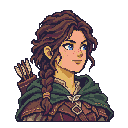
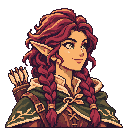
v48: 36 student heroes, 10 redrawn portraits, boarding prompt, lighthouses, bigger day flip, starting treasure, mines panel, more movement
Claude-Session: https://claude.ai/code/session_019G5bQC3KGAYpQSZdre1Ejx

diff --git a/js/01-data.js b/js/01-data.js
@@ -263,6 +263,43 @@ HEROES.push(
   {id:'bess_and_bea',tav:true,name:'Bess & Bea',fac:'centaurs',type:'Might',st:[2,3,0,1],ab:'Caravan Guards',ad:'Centaurs +2 attack and +2 defense.',sk:['shieldcraft'],sp:[],fx:{unitAtk:{centaur:2},unitDef:{centaur:2}}},
   {id:'gilt',tav:true,name:'Gilt',fac:'centaurs',type:'Might',st:[2,1,1,2],ab:'Tunnel Scout',ad:'+2 vision, and War Rabbits +2 attack.',sk:['farsight'],sp:[],fx:{vision:2,unitAtk:{rabbit:2}}},
   {id:'fin_and_flo',name:'Fin & Flo',fac:'merfolk',type:'Magic',st:[0,1,3,2],ab:'Reef Chartmakers',ad:'Giant Crabs +2 attack and +2 defense.',sk:['seamanship'],sp:['squall'],fx:{unitAtk:{crab:2},unitDef:{crab:2}}},
+  /* v48 Student Heroes (batches 1, 3, 4, 5): made by students with Create a hero; tavern wanderers of their banner, or rogues */
+  {id:'bort_simesin',tav:true,student:true,name:'Bort',fac:'necro',type:'Might',st:[2, 2, 1, 1],ab:'Growing Stone',ad:'Hellkites +2 defense and +1 speed.',sk:['command'],sp:[],fx:{unitDef:{hellkite:2},unitSpd:{hellkite:1}}},
+  {id:'gunt_gunt',tav:true,student:true,name:'Gunt Gunt',fac:'pirates',type:'Might',st:[2, 2, 1, 1],ab:'Wooden Knight',ad:'Deckhands +2 defense and +1 speed.',sk:['command'],sp:[],fx:{unitDef:{deckhand:2},unitSpd:{deckhand:1}}},
+  {id:'azure_hype',tav:true,student:true,name:'Azure Hype',fac:'rangers',type:'Magic',st:[0, 1, 3, 2],ab:'One-Hand Casting',ad:'Every spell costs 1 less mana.',sk:['meditation'],sp:['swift'],fx:{manaCut:1}},
+  {id:'ericsonion',tav:true,student:true,name:'Ericsonion',fac:'rangers',type:'Magic',st:[0, 1, 3, 2],ab:'Shield Knight',ad:'Antler Knights +2 defense and +1 speed.',sk:['meditation'],sp:['bark'],fx:{unitDef:{antler:2},unitSpd:{antler:1}}},
+  {id:'ardcat',tav:true,student:true,name:'Ardcat',fac:'pirates',type:'Might',st:[2, 2, 1, 1],ab:'Cat Tamer',ad:'+2 vision, and Powder Monkeys +2 attack.',sk:['command'],sp:[],fx:{vision:2,unitAtk:{powder:2}}},
+  {id:'space_toad',tav:true,student:true,name:'Toad',fac:'pirates',type:'Might',st:[2, 2, 1, 1],ab:'Port Tales',ad:'+150 gold a day, and Gunners +1 speed.',sk:['command'],sp:[],fx:{goldDay:150,unitSpd:{gunner:1}}},
+  {id:'mr_pinecone',tav:true,student:true,name:'Mr. Pinecone',fac:'elves',type:'Might',st:[2, 2, 1, 1],ab:'Pinecone Patrol',ad:'Sprites +2 attack and +2 defense.',sk:['command'],sp:[],fx:{unitAtk:{sprite:2},unitDef:{sprite:2}}},
+  {id:'nix',rogue:true,student:true,name:'Nyx',fac:'centaurs',type:'Magic',st:[0, 1, 3, 2],ab:'Ignored Villain',ad:'+1 luck for the whole army, and +10% movement.',sk:['meditation'],sp:['ember'],fx:{luck:1,mpPct:10}},
+  {id:'deepwave_the_ai',tav:true,student:true,name:'Deep Wave',fac:'rangers',type:'Magic',st:[0, 1, 3, 2],ab:'Flashlight Scout',ad:'+2 vision, and Moth Seers +1 speed.',sk:['meditation'],sp:['mend'],fx:{vision:2,unitSpd:{moth:1}}},
+  {id:'bobbythebob',tav:true,student:true,name:'BobbytheBob',fac:'wizards',type:'Magic',st:[0, 1, 3, 2],ab:'Potion Brewer',ad:'Mend heals 50% more, and Apprentice Mages +1 speed.',sk:['meditation'],sp:['mend'],fx:{mendPct:1.5,unitSpd:{apprentice:1}}},
+  {id:'capydara',tav:true,student:true,name:'Capybara',fac:'pirates',type:'Might',st:[2, 2, 1, 1],ab:'Smooth Talker',ad:'Duelists +2 attack and +2 defense.',sk:['command'],sp:[],fx:{unitAtk:{duelist:2},unitDef:{duelist:2}}},
+  {id:'lishy',tav:true,student:true,name:'Lishi',fac:'pirates',type:'Might',st:[2, 2, 1, 1],ab:'Bronze Construct',ad:'Your whole army +1 defense.',sk:['command'],sp:[],fx:{armyDef:1}},
+  {id:'kushalito_banana',tav:true,student:true,name:'Kushalito',fac:'necro',type:'Might',st:[2, 2, 1, 1],ab:'Joke Scout',ad:'Zombies +2 speed, and +1 vision.',sk:['command'],sp:[],fx:{unitSpd:{zombie:2},vision:1}},
+  {id:'fut_esports',tav:true,student:true,name:'Fut',fac:'centaurs',type:'Magic',st:[0, 1, 3, 2],ab:'Umbrella President',ad:'+150 gold a day, and Lions +1 defense.',sk:['meditation'],sp:['swift'],fx:{goldDay:150,unitDef:{lion:1}}},
+  {id:'noel_dragonfire',tav:true,student:true,name:'Noël Dragonfire',fac:'merfolk',type:'Might',st:[2, 2, 1, 1],ab:'Storm Witch',ad:'Turtle Knights +2 attack and +2 defense.',sk:['command'],sp:['squall'],fx:{unitAtk:{turtle:2},unitDef:{turtle:2}}},
+  {id:'luckenzo',tav:true,student:true,name:'Luckenzo',fac:'wizards',type:'Magic',st:[0, 1, 3, 2],ab:'Puppy Tracker',ad:'+2 vision, and Owl Familiars +2 attack.',sk:['meditation'],sp:['swift'],fx:{vision:2,unitAtk:{owl:2}}},
+  {id:'lord_krishna',tav:true,student:true,name:'Lord Krishna',fac:'wizards',type:'Magic',st:[0, 1, 3, 2],ab:'Storm Witch',ad:'Storm Elementals +2 defense and +1 speed.',sk:['meditation'],sp:['chain'],fx:{unitDef:{stormel:2},unitSpd:{stormel:1}}},
+  {id:'bananna',tav:true,student:true,name:'Bananna',fac:'elves',type:'Magic',st:[0, 1, 3, 2],ab:'Banana Charm',ad:'Your whole army +1 luck, and Sprites +1 speed.',sk:['meditation'],sp:['mend'],fx:{luck:1,unitSpd:{sprite:1}}},
+  {id:'nala',rogue:true,student:true,name:'Nala',fac:'centaurs',type:'Magic',st:[0, 1, 3, 2],ab:'Charm Caster',ad:'+1 luck for the whole army, and +1 vision.',sk:['meditation'],sp:['mend'],fx:{luck:1,vision:1}},
+  {id:'nanya',rogue:true,student:true,name:'Nanya',fac:'centaurs',type:'Magic',st:[0, 1, 3, 2],ab:'Carrot Charm',ad:'+100 gold a day, and +10% movement.',sk:['meditation'],sp:['swift'],fx:{goldDay:100,mpPct:10}},
+  {id:'posy_spinner',rogue:true,student:true,name:'Posy Spinner',fac:'centaurs',type:'Magic',st:[0, 1, 3, 2],ab:'Star Lantern',ad:'+2 vision, and every spell costs 1 less mana.',sk:['meditation'],sp:['ember'],fx:{vision:2,manaCut:1}},
+  {id:'catherine',tav:true,student:true,name:'Catherine',fac:'wizards',type:'Magic',st:[0, 1, 3, 2],ab:'Magic Phone',ad:'Mend heals 50% more, and Archmages +1 speed.',sk:['meditation'],sp:['mend'],fx:{mendPct:1.5,unitSpd:{magus:1}}},
+  {id:'bristle',rogue:true,student:true,name:'Bristle',fac:'centaurs',type:'Might',st:[2, 2, 1, 1],ab:'Teapot Adventurer',ad:'Your whole army +1 defense, and +10% movement.',sk:['command'],sp:[],fx:{armyDef:1,mpPct:10}},
+  {id:'zenvy',tav:true,student:true,name:'Zenvy',fac:'centaurs',type:'Might',st:[2, 2, 1, 1],ab:'Black Diamond Knight',ad:'Lions +2 attack and +1 speed.',sk:['command'],sp:[],fx:{unitAtk:{lion:2},unitSpd:{lion:1}}},
+  {id:'king_pharoph_the_3rd',tav:true,student:true,name:'King Pharoph the 3rd',fac:'centaurs',type:'Might',st:[2, 2, 1, 1],ab:'Clockwork King',ad:'Centaurs +2 defense and +1 speed.',sk:['command'],sp:[],fx:{unitDef:{centaur:2},unitSpd:{centaur:1}}},
+  {id:'rose_flower',tav:true,student:true,name:'Rose Flower',fac:'wizards',type:'Magic',st:[0, 1, 3, 2],ab:'Songbird Mermaid',ad:'Earth Elementals +2 attack and +1 speed.',sk:['meditation'],sp:['frost'],fx:{unitAtk:{earthel:2},unitSpd:{earthel:1}}},
+  {id:'posy',rogue:true,student:true,name:'Posy',fac:'centaurs',type:'Magic',st:[0, 1, 3, 2],ab:'Potion Maker',ad:'Mend heals 50% more, and +100 gold a day.',sk:['meditation'],sp:['mend'],fx:{mendPct:1.5,goldDay:100}},
+  {id:'bannana_boy',tav:true,student:true,name:'Banana Boy',fac:'wizards',type:'Magic',st:[0, 1, 3, 2],ab:'Banana Healer',ad:'Mend heals 50% more, and Owl Familiars +2 growth per week.',sk:['meditation'],sp:['mend'],fx:{mendPct:1.5,growth:{owl:2}}},
+  {id:'spirit_of_the_forest',tav:true,student:true,name:'Spirit of the Forest',fac:'wizards',type:'Might',st:[2, 2, 1, 1],ab:'Thorn Armor',ad:'Earth Elementals +2 defense and +1 speed.',sk:['command'],sp:['bark'],fx:{unitDef:{earthel:2},unitSpd:{earthel:1}}},
+  {id:'ava_young',tav:true,student:true,name:'Ava',fac:'elves',type:'Magic',st:[0, 1, 3, 2],ab:'Bunny Healer',ad:'Mend heals 50% more, and Grove Wardens +1 speed.',sk:['meditation'],sp:['mend'],fx:{mendPct:1.5,unitSpd:{dryad:1}}},
+  {id:'rosie',tav:true,student:true,name:'Rosie',fac:'elves',type:'Magic',st:[0, 1, 3, 2],ab:'Puppy Charm',ad:'Elven Riders +2 attack and +1 speed.',sk:['meditation'],sp:['swift'],fx:{unitAtk:{rider:2},unitSpd:{rider:1}}},
+  {id:'celestine_circe',tav:true,student:true,name:'Celestine Circe',fac:'wizards',type:'Magic',st:[0, 1, 3, 2],ab:'Silver Witch',ad:'Archmages +2 attack, and +1 luck for the whole army.',sk:['meditation'],sp:['frost'],fx:{unitAtk:{magus:2},luck:1}},
+  {id:'estella',tav:true,student:true,name:'Estella',fac:'elves',type:'Magic',st:[0, 1, 3, 2],ab:'Heart Staff',ad:'Mend heals 50% more, and Giant Eagles +1 speed.',sk:['meditation'],sp:['mend'],fx:{mendPct:1.5,unitSpd:{eagle:1}}},
+  {id:'lily',tav:true,student:true,name:'Lily',fac:'elves',type:'Magic',st:[0, 1, 3, 2],ab:'Shadow Vine',ad:'Longbow Rangers +2 attack, and +1 vision.',sk:['meditation'],sp:['entangle'],fx:{unitAtk:{longbow:2},vision:1}},
+  {id:'pottery',tav:true,student:true,name:'Pottery',fac:'rangers',type:'Magic',st:[0, 1, 3, 2],ab:'Lantern Witch',ad:'Reedbows +2 attack, and +1 vision.',sk:['meditation'],sp:['mend'],fx:{unitAtk:{reed:2},vision:1}},
+  {id:'kaf_underworld_pharaoh',rogue:true,student:true,name:'Kaf',fac:'centaurs',type:'Might',st:[2, 2, 1, 1],ab:'Underworld Pharaoh',ad:'Your whole army +1 defense, and +100 gold a day.',sk:['command'],sp:[],fx:{armyDef:1,goldDay:100}},
   {id:'eden',name:'Eden',fac:'elves',type:'Magic',st:[0,1,2,2],ab:'Master Archer',ad:'Longbow Rangers +1 damage and +4 shots.',sk:['steadyaim'],sp:[],fx:{unitDmgFlat:{longbow:1},unitShots:{longbow:4}}},
   {id:'letchworth',name:'Letchworth',fac:'merfolk',type:'Magic',st:[0,1,2,2],ab:'Siren Keeper',ad:'Sirens +2 shots and +1 damage.',sk:[],sp:['squall'],fx:{unitShots:{siren:2},unitDmgFlat:{siren:1}}},
 );
@@ -326,7 +363,7 @@ const START_KIT={bear:['command','sash'],perry:['shieldcraft','buckler'],boone:[
   elvis:['command','sash'],mer2:['shieldcraft','kettle'],rocky:['forcedmarch','sash'],letchworth:['meditation','breath']};
 HEROES.forEach(h=>{const k=START_KIT[h.id];if(k){h.sk=[k[0]];h.item=k[1];}});
 /* v41: every hero starts with an artifact (the newer heroes had none) */
-const START_ITEM={'gus_and_glen':'errands','midge':'inkwell','mags_and_mae':'spark','bloop':'inkwell','gleam':'purse','odo_and_otto':'buckler','aster_and_briar':'breath','rue':'cloak','ned_and_nat':'bracer','spike':'buckler','rafe_and_reed':'purse','bo':'errands','bess_and_bea':'buckler','gilt':'rabbit','fin_and_flo':'breath','vera':'buckler','remy':'spark','ada':'cloak','mara':'candle','ivy':'bracer','lune':'inkwell','hart':'errands','orla':'breath','kit_and_nell':'purse','cato':'inkwell','sid_and_tess':'rabbit','wren':'errands','rumble':'buckler','payton':'rabbit','nissa':'cloak','livingston_cyborg':'bracer','enzo':'buckler','axel':'breath','dot':'errands','gale':'spark','zahara': 'errands', 'tembor': 'buckler', 'cresset': 'candle', 'nessa_holt': 'errands', 'reedcall': 'bracer', 'purl': 'inkwell', 'quillby': 'purse', 'sera_venn': 'breath', 'gliss': 'spark', 'veyra': 'spark', 'graven': 'buckler', 'ossin': 'inkwell', 'murmur': 'cloak', 'rattleclaw': 'whetstone', 'silka': 'candle', 'flintback': 'kettle', 'inkwake': 'cudgel', 'saltjaw': 'whetstone', 'pip_quickline': 'cloak', 'bess_bell': 'errands', 'rusk_hookhorn': 'cudgel', 'ilyra': 'breath', 'tavian': 'whetstone', 'yselle': 'inkwell', 'aster': 'candle', 'thornfrill': 'buckler', 'brynja': 'cudgel', 'tansy': 'bracer', 'kiln': 'kettle', 'harlan_chalk': 'buckler', 'morel': 'rabbit', 'spindle': 'errands', 'skimmer': 'whetstone', 'atoll': 'spark', 'iona_shoal': 'breath', 'nerka': 'cudgel', 'alderhide': 'buckler', 'briar': 'cloak', 'mossback': 'breath', 'virel': 'rabbit'};
+const START_ITEM={'bort_simesin':'buckler','gunt_gunt':'buckler','azure_hype':'inkwell','ericsonion':'inkwell','ardcat':'buckler','space_toad':'buckler','mr_pinecone':'buckler','nix':'inkwell','deepwave_the_ai':'inkwell','bobbythebob':'inkwell','capydara':'buckler','lishy':'buckler','kushalito_banana':'buckler','fut_esports':'inkwell','noel_dragonfire':'buckler','luckenzo':'inkwell','lord_krishna':'inkwell','bananna':'inkwell','nala':'inkwell','nanya':'inkwell','posy_spinner':'inkwell','catherine':'inkwell','bristle':'buckler','zenvy':'buckler','king_pharoph_the_3rd':'buckler','rose_flower':'inkwell','posy':'inkwell','bannana_boy':'inkwell','spirit_of_the_forest':'buckler','ava_young':'inkwell','rosie':'inkwell','celestine_circe':'inkwell','estella':'inkwell','lily':'inkwell','pottery':'inkwell','kaf_underworld_pharaoh':'buckler','gus_and_glen':'errands','midge':'inkwell','mags_and_mae':'spark','bloop':'inkwell','gleam':'purse','odo_and_otto':'buckler','aster_and_briar':'breath','rue':'cloak','ned_and_nat':'bracer','spike':'buckler','rafe_and_reed':'purse','bo':'errands','bess_and_bea':'buckler','gilt':'rabbit','fin_and_flo':'breath','vera':'buckler','remy':'spark','ada':'cloak','mara':'candle','ivy':'bracer','lune':'inkwell','hart':'errands','orla':'breath','kit_and_nell':'purse','cato':'inkwell','sid_and_tess':'rabbit','wren':'errands','rumble':'buckler','payton':'rabbit','nissa':'cloak','livingston_cyborg':'bracer','enzo':'buckler','axel':'breath','dot':'errands','gale':'spark','zahara': 'errands', 'tembor': 'buckler', 'cresset': 'candle', 'nessa_holt': 'errands', 'reedcall': 'bracer', 'purl': 'inkwell', 'quillby': 'purse', 'sera_venn': 'breath', 'gliss': 'spark', 'veyra': 'spark', 'graven': 'buckler', 'ossin': 'inkwell', 'murmur': 'cloak', 'rattleclaw': 'whetstone', 'silka': 'candle', 'flintback': 'kettle', 'inkwake': 'cudgel', 'saltjaw': 'whetstone', 'pip_quickline': 'cloak', 'bess_bell': 'errands', 'rusk_hookhorn': 'cudgel', 'ilyra': 'breath', 'tavian': 'whetstone', 'yselle': 'inkwell', 'aster': 'candle', 'thornfrill': 'buckler', 'brynja': 'cudgel', 'tansy': 'bracer', 'kiln': 'kettle', 'harlan_chalk': 'buckler', 'morel': 'rabbit', 'spindle': 'errands', 'skimmer': 'whetstone', 'atoll': 'spark', 'iona_shoal': 'breath', 'nerka': 'cudgel', 'alderhide': 'buckler', 'briar': 'cloak', 'mossback': 'breath', 'virel': 'rabbit'};
 HEROES.forEach(h=>{if(!h.item&&START_ITEM[h.id])h.item=START_ITEM[h.id];});
 /* starting stats: one higher across the board, more on each hero's main stat, and a personal extra point */
 for(const h of HEROES){if(h._st)continue;h._st=1;const r=hash(h.id);h.st=h.st.map(v=>v+1);const main=h.type==='Might'?(h.st[0]>=h.st[1]?0:1):(h.st[2]>=h.st[3]?2:3);h.st[main]+=1+(r%2);h.st[(r>>>3)%4]+=1;}

diff --git a/js/03-map.js b/js/03-map.js
@@ -1,6 +1,8 @@
 'use strict';
 /* ================= MAP ================= */
 let W=34,H=26;const TS=44;
+/* v48: Starting treasure on Choose your game: by difficulty, or 5,000 gold and 5 of each material, or 10,000 and 10 */
+const startRes=mo=>{const t=+mo.treasure;if(t===5||t===10)return{gold:t*1000,timber:t,ore:t,amber:t,gems:t,moonwater:t};return{...DIFF[mo.diff||'normal'].res};};
 const DIFF={
   easy:{name:'Easy',res:{gold:10000,timber:25,ore:25,amber:8,gems:6,moonwater:6},rv:0.75,mon:0.8,agg:0.7,desc:'10,000 gold and plenty of materials. Rivals start smaller and grow slowly; wild creatures are fewer.'},
   normal:{name:'Normal',res:{gold:5000,timber:15,ore:15,amber:4,gems:2,moonwater:2},rv:1,mon:1,agg:1,desc:'5,000 gold. Rivals are your match.'},
@@ -17,7 +19,7 @@ const MAP_TYPES={
   under:{name:'Underworld',desc:'Daylight above, a dark underworld below, solid bedrock between. Portals are the only way through. Necromancers rule below, and the Glass Lair waits down there.'},
   rivers:{name:'Four Rivers',desc:'Four rivers meet around an island holding the Glass Lair. Every banner has its own quarter. Cross at bridges, some guarded, and hold the bridgeheads with spires.'}};
 const T={GRASS:0,DIRT:1,ROAD:2,HEATH:3,BOG:4,FOREST:5,CRAG:6,LAKE:7};
-const TCOST=[100,100,70,130,175,0,0,0];
+const TCOST=[100,100,55,130,175,0,0,0];/* v48: roads cost 55 (was 70) */
 const TNAME=['Meadow','Dirt track','Old road','Heath','Bog','Deep forest','Crags','Lake'];
 const passableT=t=>t<5;
 let S=null;
@@ -715,7 +717,7 @@ function newGame(fk,hid,mo={}){
   const w=cm?customWorld(cm,rivalFacs):genMap(seed,{type,fac:fk,rivals:rivalFacs});const f=FAC[fk];
   const [t1,t2]=f.units;
   S={v:3,roster:2,ids27:1,seed,fac:fk,W,H,mapType:type,size:mo.size||'small',limit:sz.limit,tiles:w.tiles,objs:w.objs,uid:w.uid+10,biome:w.biome||'vale',underY:w.underY||0,rivers:w.rivers||null,bridges:w.bridges||null,explored:new Array(W*H).fill(0),day:1,
-    res:{...DIFF[mo.diff||'normal'].res},diff:mo.diff||'normal',heroes:[],cur:0,rivals:[],rumours:[],delivered:[],setup:{majors:mo.majors,outposts:mo.outposts},
+    res:startRes(mo),diff:mo.diff||'normal',heroes:[],cur:0,rivals:[],rumours:[],delivered:[],setup:{majors:mo.majors,outposts:mo.outposts},
     town:{x:w.town.x,y:w.town.y,name:f.town,built:{hall1:1,d1:1,d2:1,lib1:1},pool:{[t1]:U[t1].growth,[t2]:U[t2].growth},garrison:[],builtToday:false},
     over:false};
   const h=mkHero(hid,w.town.x,w.town.y);h.army=[{k:t1,n:Math.round(240/U[t1].hp)},{k:t2,n:Math.round(90/U[t2].hp)}];S.heroes.push(h);
@@ -744,7 +746,7 @@ function newGame(fk,hid,mo={}){
       S.objs.push({type:'town',x:sp.x,y:sp.y,owner:pi,id:S.uid++});
       const[u1,u2]=f2.units,h2=mkHero(pp.hid,sp.x,sp.y);h2.army=[{k:u1,n:Math.round(240/U[u1].hp)},{k:u2,n:Math.round(90/U[u2].hp)}];if(mo.artifact){const pool=Object.keys(ITEMS).filter(k=>ITEMS[k].lvl<=3&&!(h2.items||[]).includes(k));if(pool.length)giveItem(h2,pick(pool));}
       S.players.push({name:`Player ${pi+1}`,fac:pp.fk,town:{x:sp.x,y:sp.y,name:f2.town,built:{hall1:1,d1:1,d2:1,lib1:1},pool:{[u1]:U[u1].growth,[u2]:U[u2].growth},garrison:[],builtToday:false},
-        res:{...DIFF[mo.diff||'normal'].res},heroes:[h2],cur:0,explored:new Array(W*H).fill(0),delivered:[],rumours:[],goal:[0,1,2,3,4,5,6]});});
+        res:startRes(mo),heroes:[h2],cur:0,explored:new Array(W*H).fill(0),delivered:[],rumours:[],goal:[0,1,2,3,4,5,6]});});
     rebuildFoot();
     for(let j=1;j<S.players.length;j++){loadPlayer(j);HERO().mana=maxMana();HERO().mp=maxMP();reveal(S.town.x,S.town.y,6);addRumour(true);stashPlayer();}
     loadPlayer(0);
@@ -752,11 +754,14 @@ function newGame(fk,hid,mo={}){
   rebuildFoot();
   if(!w.noFurnish){const bases=[{x:S.town.x,y:S.town.y,fac:S.fac},...(S.players?S.players.slice(1).map(q=>({x:q.town.x,y:q.town.y,fac:q.fac})):S.rivals.map(r=>({x:r.x,y:r.y,fac:r.fac})))];furnishMap(bases);if(!cm)S.accessFixed=ensureAccess(bases);}
 }
+/* v48 lighthouses (shore scenery, positions kept in LIGHTS by the terrain painter): a hero within 2 tiles sees 14 tiles around the light */
+let LIGHTS=[];
+function lightsNear(x,y){let fresh=false;S.lit=S.lit||[];for(const l of LIGHTS)if(Math.max(Math.abs(l.x-x),Math.abs(l.y-y))<=2){reveal(l.x,l.y,14);const k=l.x+','+l.y;if(!S.lit.includes(k)){S.lit.push(k);fresh=true;}}return fresh;}
 function reveal(cx,cy,r){for(let y=cy-r;y<=cy+r;y++)for(let x=cx-r;x<=cx+r;x++)if(inb(x,y)&&(x-cx)**2+(y-cy)**2<=r*r+1)S.explored[idx(x,y)]=1;}
 const vision=()=>5+skL('farsight')+(fx().vision||0)+(S&&S.heroes?gear(HERO(),'vision'):0)+(S&&S.delivered&&delivered(0)?1:0);
 const maxMana=()=>Math.round(hst(HERO(),'lore')*10*(1+0.25*skL('deepres')));
 function maxMP(){const sp=HERO().army.length?Math.min(...HERO().army.map(a=>U[a.k].spd+((fx().unitSpd||{})[a.k]||0))):5;
-  let m=900+45*Math.min(sp,9);if(HERO().mount!=='foot')m*=1.4;m*=1+0.1*skL('forcedmarch');m*=1+(gear(HERO(),'mpPct')+(fx().mpPct||0))/100;if(S.event&&S.event.k==='road')m*=1.1;return Math.round(m);}
+  let m=1200+45*Math.min(sp,9);/* v48: base raised from 900 */if(HERO().mount!=='foot')m*=1.4;m*=1+0.1*skL('forcedmarch');m*=1+(gear(HERO(),'mpPct')+(fx().mpPct||0))/100;if(S.event&&S.event.k==='road')m*=1.1;return Math.round(m);}
 const xpFor=l=>Math.round(1000*l*(1+0.12*(l-1)));
 const income=()=>(S.town.taken?0:hallGold(S.town))+S.heroes.reduce((a,h)=>a+250*skLevel(h,'estates')+gear(h,'goldDay')+((HBY[h.id]&&HBY[h.id].fx||{}).goldDay||0),0)+S.objs.filter(o=>o.type==='camp'&&o.owned===ME()).reduce((a,o)=>a+campIncome(o),0);
 function dateParts(d=S.day){const m=Math.floor((d-1)/28)+1,w=Math.floor(((d-1)%28)/7)+1,dd=(d-1)%7+1;return{m,w,d:dd};}
@@ -825,9 +830,9 @@ function renderTerrainArt(){
     else if(!hills.some(p=>Math.max(Math.abs(p.x-x),Math.abs(p.y-y))<=1)){hills.push({x,y,w:0});P(under(y)?pick2(['leaning_monolith','split_boulder','umber_slate_ledge','taupe_granite_pair']):pick2(['ochre_hill','split_boulder','sandstone_boulders','ochre_rock_ledge','umber_slate_ledge','taupe_granite_pair','leaning_monolith']),x*N+16+j(4),y*N+30);}
     else P('boulder',x*N+16+j(10),y*N+26+j(4));}
   // the waterfront: a wreck out on open water, and the odd lighthouse on a shore
-  {let wrecks=Math.round(W/30),lights=Math.round(W/30);for(let k=0;k<600&&(wrecks>0||lights>0);k++){const x=2+Math.floor(g()*(W-4)),y=2+Math.floor(g()*(H-4)),i=idx(x,y);
+  LIGHTS=[];{let wrecks=Math.round(W/30),lights=Math.round(W/30);for(let k=0;k<600&&(wrecks>0||lights>0);k++){const x=2+Math.floor(g()*(W-4)),y=2+Math.floor(g()*(H-4)),i=idx(x,y);
     if(wrecks>0&&S.tiles[i]===T.LAKE&&!RV.has(i)&&[-1,0,1].every(a=>[-1,0,1].every(b=>S.tiles[idx(x+a,y+b)]===T.LAKE))&&!busy.has(i)){P('shipwreck',x*N+16,y*N+28);busy.add(i);wrecks--;}
-    else if(lights>0&&S.tiles[i]===T.GRASS&&!busy.has(i)&&!busy.has(i-W)&&lakeNear4(x,y)&&!under(y)){P('lighthouse',x*N+16,y*N+30);busy.add(i);lights--;}}}
+    else if(lights>0&&S.tiles[i]===T.GRASS&&!busy.has(i)&&!busy.has(i-W)&&lakeNear4(x,y)&&!under(y)){P('lighthouse',x*N+16,y*N+30);LIGHTS.push({x,y});busy.add(i);lights--;}}}
   // a few landmarks on open meadow: stone arches
   {let arches=Math.round(W/22);for(let k=0;k<400&&arches>0;k++){const x=1+Math.floor(g()*(W-2)),y=2+Math.floor(g()*(H-3));if(under(y))continue;
     const ok=[-1,0,1].every(dx=>{const i=idx(x+dx,y);return S.tiles[i]===T.GRASS&&!busy.has(i)&&!busy.has(i-W);});if(!ok)continue;
@@ -861,7 +866,7 @@ function renderTerrainArt(){
       else if(r<0.035*dk)P('flowers_meadow',X+j(14),Y+j(8));else if(r<0.05*dk)P('flowers_blue',X+j(14),Y+j(8));else if(r<0.08*dk)P('shrub',X+j(14),Y+j(8));else if(r<0.1*dk)P(near4(x,y,T.CRAG)&&r<0.093*dk?pick2(['sandstone_boulders','taupe_granite_pair']):'boulder',X+j(14),Y+j(8));}
     else if(t===T.DIRT&&r<0.06)P(r<0.03?pick2(GROUNDS):'boulder',X+j(14),Y+j(8));}
   props.sort((a,b)=>a.y-b.y);
-  for(const p of props){const img=taImg(`scenery/${p.k}.png`);sc.drawImage(img,Math.round(p.x-img.width/2),Math.round(p.y-img.height+4));}
+  for(const p of props){const img=taImg(`scenery/${p.k}.png`),k=p.k==='lighthouse'?0.7:1,w=Math.round(img.width*k),hh=Math.round(img.height*k);sc.drawImage(img,Math.round(p.x-w/2),Math.round(p.y-hh+4),w,hh);}
   const lake=(x,y)=>tl(x,y)===T.LAKE&&!RV.has(idx(clamp(x,0,W-1),clamp(y,0,H-1))),anim=taImg('water_anim.png');
   const RC=(x,y)=>!inb(x,y)||RV.has(idx(x,y));
   // big maps keep fewer water frames in memory

diff --git a/js/09-start.js b/js/09-start.js
@@ -33,7 +33,7 @@ const seedPick=(seed,salt,w)=>{let r=((seed^salt)*2654435761>>>0)/4294967296*w.r
 const REC_SIZE={1:'small',2:'medium',3:'large',4:'large',5:'xl',6:'xl'};
 async function pickMap(opt={}){
   const mine=loadMaps().filter(m=>m.objs.some(o=>o.type==='town')&&m.objs.filter(o=>o.type==='relic').length>=7);
-  let tut=typeof tutSeen==='function'?!tutSeen():false,type=opt.custom?'custom:'+opt.custom:'wheel',size=tut?'xl':'large',seed=(Math.random()*1e9)|0,mode='relic',np=2,diff='normal',nr=3,nm='r',no='r',art=false;
+  let tut=typeof tutSeen==='function'?!tutSeen():false,type=opt.custom?'custom:'+opt.custom:'wheel',size=tut?'xl':'large',seed=(Math.random()*1e9)|0,mode='relic',np=2,diff='normal',nr=3,nm='r',no='r',art=false,tr='d';
   const NR=()=>nr??MAP_SIZES[size].rivals,NM=()=>nm==='r'?seedPick(seed,0x5bd1,TOWN_W):nm??MAP_SIZES[size].majors,NO=()=>no==='r'?seedPick(seed,0x1f3a,OUT_W):no,OUTW=['Few','Some','Many'];
   const maxR=()=>type==='rivers'?4:6;
   const html=()=>`<div class="gm-top"><div class="diffs" role="group" aria-label="Difficulty"><span class="label">Difficulty</span>${Object.entries(DIFF).map(([k,d])=>`<button class="dchip bare${k===diff?' on':''}" data-diff="${k}" title="${d.desc}">${ico('difficulty_'+k,40)}${d.name}</button>`).join('')}</div><button class="dchip bare tutchip${tut?' on':''}" data-tut="1" title="A guide walks you through your first week: building, recruiting, mines, a second hero and your first fight. Suggested: an Extra large map with a banner you like.">📘 Tutorial${tut?': on':': off'}</button></div>
@@ -42,7 +42,8 @@ async function pickMap(opt={}){
     <h3 class="gsec">Rivals and towns</h3>
     <div class="maprow setup">${mode==='multi'?`<span class="label">Players</span>${[2,3,4,5].map(n=>`<button class="dchip bare${n===np?' on':''}" data-np="${n}" aria-label="${n} players">${ico('rivals_'+Math.min(6,n),48)}</button>`).join('')}`:`<span class="label">Rivals</span>${[1,2,3,4,5,6].map(n=>`<button class="dchip bare${n===NR()?' on':''}" data-nr="${n}" ${n>maxR()?'disabled title="Four Rivers has room for four rivals"':`title="Play against ${n} rival banner${n>1?'s':''}, each with a home town to build up. Picks the recommended map size."`} aria-label="${n} rivals">${ico('rivals_'+n,48)}</button>`).join('')}`}
       <span class="label" title="Free towns that become full towns once captured: build them up like your home">Great towns</span><button class="dchip rand${nm==='r'?' on':''}" data-nm="r" title="Rolled with the map: usually 2 to 4, rarely 0 or 6">🎲 Random</button>${[0,1,2,3,4,5,6].map(n=>`<button class="dchip bare${nm!=='r'&&n===NM()?' on':''}" data-nm="${n}" title="${n} free great town${n===1?'':'s'}: capture one and build it up like your home" aria-label="${n} great towns">${ico('towns_'+n,40)}</button>`).join('')}
-      <span class="rowbrk"></span><span class="label" title="Small outposts: gold and a few recruits; some are held by a rogue hero">Outposts</span><button class="dchip rand${no==='r'?' on':''}" data-no="r" title="Rolled with the map: usually Some">🎲 Random</button>${OUTW.map((w,i)=>`<button class="dchip bare${i===no?' on':''}" data-no="${i}" title="${w} outposts (gold and a few recruits; some held by a rogue)">${ico('outposts_'+w.toLowerCase(),40)}${w}</button>`).join('')}</div>
+      <span class="rowbrk"></span><span class="label" title="Small outposts: gold and a few recruits; some are held by a rogue hero">Outposts</span><button class="dchip rand${no==='r'?' on':''}" data-no="r" title="Rolled with the map: usually Some">🎲 Random</button>${OUTW.map((w,i)=>`<button class="dchip bare${i===no?' on':''}" data-no="${i}" title="${w} outposts (gold and a few recruits; some held by a rogue)">${ico('outposts_'+w.toLowerCase(),40)}${w}</button>`).join('')}
+      <span class="rowbrk"></span><span class="label" title="Gold and materials you start with">Starting treasure</span>${[['d','By difficulty',`Set by the difficulty (${fmt(DIFF[diff].res.gold)} gold)`],['5','5,000 gold · 5 of each','5,000 gold and 5 of every material'],['10','10,000 gold · 10 of each','10,000 gold and 10 of every material']].map(([k,l,t])=>`<button class="dchip bare trchip${k===tr?' on':''}" data-tr="${k}" title="${t}"><img src="${iconURL('res','gold',32)}" alt="">${l}</button>`).join('')}</div>
     <h3 class="gsec">Map</h3>
     <div class="maprow">${Object.entries(MAP_SIZES).map(([k,z])=>`<button class="dchip${k===size?' on':''}${k===REC_SIZE[mode==='multi'?np-1:NR()]?' rec':''}" data-size="${k}" title="${z.W}×${z.H} tiles · ${Math.round(z.limit/28)} months${k===REC_SIZE[mode==='multi'?np-1:NR()]?' · recommended':''}">${ico({small:'map_small',medium:'map_medium',large:'map_large',xl:'map_extra_large'}[k],28)}${z.label}${k===REC_SIZE[mode==='multi'?np-1:NR()]?' ★':''}</button>`).join('')}<button class="dchip" data-reroll="1" title="Roll a new layout">${ico('new_layout',28)}New layout</button><button class="dchip" data-mkmap="1" title="Open the map editor">${ico('map_editor',28)}Make your own map</button>
       <span class="muted msize">${MAP_SIZES[size].W}×${MAP_SIZES[size].H} · ${Math.round(MAP_SIZES[size].limit/28)} months</span></div>
@@ -54,10 +55,10 @@ async function pickMap(opt={}){
   body.addEventListener('click',e=>{const b=e.target.closest('button');if(!b)return;
     if(b.dataset.mkmap){$('#modal')._close('edit');return;}
     if(b.dataset.tut){tut=!tut;if(tut){size='xl';nm=nm==='r'?'r':null;}body.innerHTML=html();return;}
-    if(b.dataset.mode)mode=b.dataset.mode;else if(b.dataset.diff)diff=b.dataset.diff;else if(b.dataset.np){np=+b.dataset.np;size=REC_SIZE[np-1];}else if(b.dataset.map){type=b.dataset.map;if(type==='rivers'&&NR()>4)nr=4;}else if(b.dataset.size){size=b.dataset.size;nm=nm==='r'?'r':null;}else if(b.dataset.nr){nr=+b.dataset.nr;size=REC_SIZE[nr];nm=nm==='r'?'r':null;}else if(b.dataset.nm)nm=b.dataset.nm==='r'?'r':+b.dataset.nm;else if(b.dataset.no)no=b.dataset.no==='r'?'r':+b.dataset.no;else if(b.dataset.reroll)seed=(Math.random()*1e9)|0;else return;body.innerHTML=html();});
+    if(b.dataset.mode)mode=b.dataset.mode;else if(b.dataset.diff)diff=b.dataset.diff;else if(b.dataset.np){np=+b.dataset.np;size=REC_SIZE[np-1];}else if(b.dataset.map){type=b.dataset.map;if(type==='rivers'&&NR()>4)nr=4;}else if(b.dataset.size){size=b.dataset.size;nm=nm==='r'?'r':null;}else if(b.dataset.nr){nr=+b.dataset.nr;size=REC_SIZE[nr];nm=nm==='r'?'r':null;}else if(b.dataset.nm)nm=b.dataset.nm==='r'?'r':+b.dataset.nm;else if(b.dataset.no)no=b.dataset.no==='r'?'r':+b.dataset.no;else if(b.dataset.tr)tr=b.dataset.tr;else if(b.dataset.reroll)seed=(Math.random()*1e9)|0;else return;body.innerHTML=html();});
   const v=await p;if(v==='edit')return{edit:true};if(v!=='go')return null;
-  if(type.startsWith('custom:')){const id=type.slice(7),m=loadMaps().find(x=>x.id===id);if(m)return{type:'custom',custom:id,size:m.size,seed,mode,diff,majors:NM(),outposts:NO(),artifact:art,nPlayers:mode==='multi'?Math.min(np,1+m.objs.filter(o=>o.type==='camp'&&!o.free).length):1};}
-  return{type,size,seed,mode,diff,rivals:Math.min(maxR(),NR()),majors:NM(),outposts:NO(),artifact:art,tutorial:tut&&mode!=='multi',nPlayers:mode==='multi'?np:1};
+  if(type.startsWith('custom:')){const id=type.slice(7),m=loadMaps().find(x=>x.id===id);if(m)return{type:'custom',custom:id,size:m.size,seed,mode,diff,majors:NM(),outposts:NO(),artifact:art,treasure:tr,nPlayers:mode==='multi'?Math.min(np,1+m.objs.filter(o=>o.type==='camp'&&!o.free).length):1};}
+  return{type,size,seed,mode,diff,rivals:Math.min(maxR(),NR()),majors:NM(),outposts:NO(),artifact:art,treasure:tr,tutorial:tut&&mode!=='multi',nPlayers:mode==='multi'?np:1};
 }
 /* Choose your banner: a tall grid of banner cards; Details opens a full page for one banner (heroes, troops, ability), with arrows to flip between banners */
 const UNIT_TAGS=u=>[u.fly&&'Flies',u.shots&&`Shoots (${u.shots})`,u.charge&&'Charge',u.double&&'Strikes twice',u.noRetal&&'No strike-back',u.retal>1&&'Strikes back twice',u.regen&&'Regrows',u.drain&&'Drains life',u.charm&&'Charms',u.undead&&'Undead'].filter(Boolean);

diff --git a/js/04-ui.js b/js/04-ui.js
@@ -105,7 +105,14 @@ async function dismissHero(h){if(S.heroes.length<2)return;
 /* v46: every mine you hold in one place, opened from the ⛏ button in the top bar */
 function openMines(){const ms=()=>S.objs.filter(o=>o.type==='mine'&&o.owned===ME());
   const tot=()=>{const t={};for(const o of ms()){const r=MINE[o.k].res;t[r]=(t[r]||0)+mineOut(o);}return t;};
-  const body=()=>{const t=tot();return`<div class="minesum">${Object.keys(t).length?RES.filter(k=>t[k]).map(k=>`<span><img src="${iconURL('res',k,32)}" alt="">+${fmt(t[k])} ${RESNAME[k].toLowerCase()} a day</span>`).join(''):'<span class="muted">No mines yet.</span>'}</div>${mineList().replace(/<h3[^>]*>Your mines<\/h3>/,'')}`;};
+  /* v48: one centred card per kind of mine, its pictures stacked, then each mine you hold with its level, output and upgrade */
+  const pic=k=>MINE_ART[k]?`<i class="mpic" style="background-image:url(${ART_BASE}map/mines/${MINE_ART[k][0]}.png)"></i>`:`<img class="mres" src="${iconURL('res',MINE[k].res,40)}" alt="">`;
+  const body=()=>{const t=tot(),by={};for(const o of ms())(by[o.k]=by[o.k]||[]).push(o);
+    const cards=Object.keys(MINE).filter(k=>by[k]).map(k=>{const list=by[k].sort((a,b)=>(b.lvl||1)-(a.lvl||1)),out=list.reduce((a,o)=>a+mineOut(o),0),m=MINE[k];
+      return`<div class="mgrp"><div class="mstack">${list.slice(0,4).map((o,i)=>`<span style="--i:${i}">${pic(k)}</span>`).join('')}</div>
+        <h4>${m.name} <b>×${list.length}</b></h4><p class="mtot"><img src="${iconURL('res',m.res,32)}" alt="">+${fmt(out)} ${RESNAME[m.res].toLowerCase()} a day</p>
+        <div class="mlist">${list.map(o=>{const lv=o.lvl||1,c=MINE_UP[lv];return`<div class="mone"><span>Level ${lv} · +${fmt(mineOut(o))}</span>${lv<3?`<button class="btn sm" data-mineup="${o.id}" ${canAfford(c)?'':'disabled'} title="${Object.entries(c).map(([r,v])=>fmt(v)+' '+RESNAME[r].toLowerCase()).join(', ')}">Upgrade</button>`:'<em>max</em>'}<button class="btn sm" data-minego="${o.id}" title="Show on map">📍</button></div>`;}).join('')}</div></div>`;}).join('');
+    return`<div class="minesum">${Object.keys(t).length?RES.filter(k=>t[k]).map(k=>`<span><img src="${iconURL('res',k,32)}" alt="">+${fmt(t[k])} ${RESNAME[k].toLowerCase()} a day</span>`).join(''):'<span class="muted">No mines yet. Walk onto a mine on the map to claim it.</span>'}</div><div class="mgrps">${cards}</div>`;};
   showModal({title:`⛏ Your mines (${ms().length})`,body:body(),wide:true,top:true,buttons:[{label:'Close',value:1,primary:true}],dismiss:1});
   const b=$('#modal').querySelector('.body');
   b.addEventListener('click',e=>{const el=e.target.closest('[data-mineup],[data-minego]');if(!el)return;
@@ -135,7 +142,7 @@ function heroBonusText(k){const h=HERO(),f=fx(),bits=[];if(hst(h,'atk'))bits.pus
   if(f.unitAtk&&f.unitAtk[k])bits.push(`+${f.unitAtk[k]} attack from ${H_().ab}`);if(f.unitDef&&f.unitDef[k])bits.push(`+${f.unitDef[k]} defense from ${H_().ab}`);if(f.unitSpd&&f.unitSpd[k])bits.push(`+${f.unitSpd[k]} speed from ${H_().ab}`);
   return bits.length?`<p class="muted" style="margin:6px 0 0;font-size:13px">In ${h.name}'s army: ${bits.join(', ')}.</p>`:'';}
 /* pickups announce themselves big at the top of the map */
-function dayFlip(){const d=$('#dayflip');if(!d)return;const p=dateParts();d.querySelector('b').textContent=p.d===1?`Week ${p.w} · Day 1`:`Day ${p.d}`;d.hidden=false;d.classList.remove('go');void d.offsetWidth;d.classList.add('go');clearTimeout(d._t);d._t=setTimeout(()=>{d.hidden=true;},1500);}
+function dayFlip(){const d=$('#dayflip');if(!d)return;const p=dateParts();d.querySelector('b').textContent=`Week ${p.w} · Day ${p.d}`;{let sm=d.querySelector('small');if(!sm){sm=document.createElement('small');d.appendChild(sm);}sm.textContent=`Month ${p.m}`;}d.hidden=false;d.classList.remove('go');void d.offsetWidth;d.classList.add('go');clearTimeout(d._t);d._t=setTimeout(()=>{d.hidden=true;},1500);}
 function lootPop(msg,img){const box=$('#loot');if(!box){toast(msg);return;}const t=document.createElement('div');t.className='lootpop';t.innerHTML=`${img?`<img src="${img}" alt="">`:''}<span>${msg}</span>`;box.appendChild(t);
   while(box.children.length>3)box.firstChild.remove();setTimeout(()=>{t.classList.add('out');setTimeout(()=>t.remove(),400);},2800);}
 function toast(msg){const t=document.createElement('div');t.className='toast';t.innerHTML=msg;$('#toasts').appendChild(t);setTimeout(()=>t.remove(),3400);}

diff --git a/js/02-art.js b/js/02-art.js
@@ -237,7 +237,7 @@ function drawRelic(c,i,x,y,r){const Rl=RELICS[i];c.save();c.translate(x,y);c.sca
 const ART_BASE='assets/';
 /* Tavern Recruits (v37): 19 portraits packed in portraits/heroes/recruits.png (10 a row, 128 px) so the published copy stays under its file limit.
    Cropped to a data URL once the atlas loads; on file:// (canvas export blocked) or before it loads, use the single file. */
-const RECRUIT_PORT=['alderhide','briar','mossback','ilyra','tavian','yselle','veyra','graven','ossin','spindle','skimmer','atoll','brynja','tansy','kiln','purl','quillby','folio','cresset','inkwake','saltjaw','pip_quickline','zahara','tembor','virel','nessa_holt','reedcall','sera_venn','gliss','murmur','rattleclaw','silka','flintback','bess_bell','rusk_hookhorn','aster','thornfrill','harlan_chalk','morel','iona_shoal','nerka','axel','dot','enzo','gale','livingston_cyborg','nissa','payton','vera','remy','ada','mara','ivy','lune','hart','orla','kit_and_nell','cato','sid_and_tess','wren','rumble','gus_and_glen','midge','mags_and_mae','bloop','gleam','odo_and_otto','aster_and_briar','rue','ned_and_nat','spike','rafe_and_reed','bo','bess_and_bea','gilt','fin_and_flo'];
+const RECRUIT_PORT=['alderhide','briar','mossback','ilyra','tavian','yselle','veyra','graven','ossin','spindle','skimmer','atoll','brynja','tansy','kiln','purl','quillby','folio','cresset','inkwake','saltjaw','pip_quickline','zahara','tembor','virel','nessa_holt','reedcall','sera_venn','gliss','murmur','rattleclaw','silka','flintback','bess_bell','rusk_hookhorn','aster','thornfrill','harlan_chalk','morel','iona_shoal','nerka','axel','dot','enzo','gale','livingston_cyborg','nissa','payton','vera','remy','ada','mara','ivy','lune','hart','orla','kit_and_nell','cato','sid_and_tess','wren','rumble','gus_and_glen','midge','mags_and_mae','bloop','gleam','odo_and_otto','aster_and_briar','rue','ned_and_nat','spike','rafe_and_reed','bo','bess_and_bea','gilt','fin_and_flo','bort_simesin','gunt_gunt','azure_hype','ericsonion','ardcat','space_toad','mr_pinecone','nix','deepwave_the_ai','bobbythebob','capydara','lishy','kushalito_banana','fut_esports','noel_dragonfire','luckenzo','lord_krishna','bananna','nala','nanya','posy_spinner','catherine','bristle','zenvy','king_pharoph_the_3rd','rose_flower','posy','bannana_boy','spirit_of_the_forest','ava_young','rosie','celestine_circe','estella','lily','pottery','kaf_underworld_pharaoh'];
 const recruitCache={};
 function recruitPortrait(id){if(recruitCache[id])return recruitCache[id];const a=artImg('portraits/heroes/recruits.png'),i=RECRUIT_PORT.indexOf(id),file=ART_BASE+`portraits/heroes/${id}_128.png`;
   if(!a.ok)return file;try{const cv=document.createElement('canvas');cv.width=cv.height=128;cv.getContext('2d').drawImage(a.img,(i%10)*128,Math.floor(i/10)*128,128,128,0,0,128,128);return recruitCache[id]=cv.toDataURL();}catch(e){return recruitCache[id]=file;}}
@@ -335,7 +335,7 @@ function iconURL(kind,key,size=64){
   if(kind==='gem')return ART_BASE+`gems/${key}.png`;
   if(kind==='hero'&&HBY[key]&&HBY[key].custom&&HBY[key].port)return HBY[key].port;
   if(kind==='hero'&&RECRUIT_PORT.includes(key))return recruitPortrait(key);
-  if(kind==='hero'&&ART_PORTRAITS.has(key))return ART_BASE+`portraits/heroes/${key}_128.png?v=30`;
+  if(kind==='hero'&&ART_PORTRAITS.has(key))return ART_BASE+`portraits/heroes/${key}_128.png?v=48`;
   if(kind==='unit'&&ENEMY_ART[key])return ART_BASE+`portraits/enemies/${ENEMY_ART[key]}_64.png`;
   if(kind==='unit'&&stripArt(key))return ART_BASE+`portraits/units/${stripArt(key)}_128.png`;
   if(kind==='unit'&&unitArt(key))return ART_BASE+`portraits/units/${unitArt(key)}_64.png`;

diff --git a/css/game.css b/css/game.css
@@ -1084,3 +1084,24 @@ img.upg{filter:sepia(.55) saturate(1.9) hue-rotate(-12deg) brightness(1.06) drop
 .cr-del{position:absolute;top:2px;right:2px;border:0;background:#b33;color:#fff;border-radius:50%;width:20px;height:20px;cursor:pointer;font-size:11px;line-height:20px;padding:0}
 @media (max-width:640px){.cr-gamegrid{grid-template-columns:1fr}.cr-pic{margin:0 auto}}
 .creator label.cr-up{display:inline-flex!important;grid-template-columns:none!important;align-items:center}
+/* v48 bigger day flip with the week and day */
+#dayflip img{width:160px!important;height:160px!important}
+#dayflip b{font-size:46px!important}
+#dayflip small{font:700 22px var(--f-display);color:#ffe9a6;text-shadow:0 2px 0 #000;letter-spacing:.06em}
+#dayflip.go b{animation:dfPop 1.5s ease}
+@keyframes dfPop{0%{transform:scale(.6);opacity:0}25%{transform:scale(1.12);opacity:1}40%{transform:scale(1)}100%{transform:scale(1)}}
+.trchip img{width:22px;height:22px;margin-right:4px;vertical-align:-5px}
+/* v48 mines panel: centred cards per kind, pictures stacked */
+.mgrps{display:flex;flex-wrap:wrap;justify-content:center;gap:14px;margin-top:10px}
+.mgrp{width:250px;display:grid;justify-items:center;gap:4px;background:rgba(255,250,232,.7);border:2px solid var(--rule,#b89a5a);border-radius:10px;padding:10px;text-align:center}
+.mgrp h4{margin:0;font:800 19px var(--f-display);color:#1b2f7a}.mgrp h4 b{color:#7a5a1e}
+.mstack{position:relative;width:150px;height:76px}
+.mstack span{position:absolute;left:calc(50% - 48px + var(--i)*12px);top:calc(var(--i)*-5px + 15px);z-index:calc(10 - var(--i));filter:drop-shadow(0 2px 2px rgba(0,0,0,.35))}
+.mstack .mpic{width:96px;height:48px;image-rendering:pixelated}.mstack .mres{width:44px;height:44px;margin-left:26px}
+.mtot{margin:0;font-weight:700;display:flex;align-items:center;gap:5px}.mtot img{width:20px;height:20px}
+.mlist{display:grid;gap:4px;width:100%}
+.mone{display:flex;align-items:center;justify-content:center;gap:6px;background:rgba(255,255,255,.55);border-radius:6px;padding:3px 6px;font-size:14px}
+.mone span{flex:1;text-align:left}.mone em{font-size:12px;color:#2c7a3a}
+/* taller mines button so the pickaxe shows */
+.minesbtn{height:auto!important;min-height:52px;flex-direction:column;gap:0!important;padding:2px 10px!important;line-height:1}
+.minesbtn .mb-ic{font-size:28px!important}.minesbtn b{font-size:15px}

diff --git a/js/05-adventure.js b/js/05-adventure.js
@@ -23,7 +23,10 @@ async function walk(){
       break;
     }
     const jumped=Math.max(Math.abs(n.x-HERO().x),Math.abs(n.y-HERO().y))>1,swap=shipSwap(HERO(),HERO().x,HERO().y,n.x,n.y);
-    HERO().mp-=cost;await stepHero(n);reveal(n.x,n.y,vision());path.shift();renderUI();
+    if(swap&&tileAt(n.x,n.y)===T.LAKE){/* v48: ask before casting off, since it ends the day's movement */
+      const ok=await showModal({title:'⛵ Board your ship?',body:`<p>Casting off ends <b>${esc(HERO().name)}</b>'s movement for today (${fmt(HERO().mp)} movement left).</p><p class="muted">Tomorrow the ship sails at full speed.</p>`,buttons:[{label:'Stay ashore',value:0},{label:'Board the ship',value:1,primary:true}],dismiss:0});
+      if(!ok){path=null;break;}}
+    HERO().mp-=cost;await stepHero(n);reveal(n.x,n.y,vision());if(lightsNear(n.x,n.y)){toast('🗼 The lighthouse lights up the coast around you.');}path.shift();renderUI();
     if(jumped)toast(n.y>=(S.underY||1e9)?'Through the portal: down into the underworld.':'Through the portal and back into daylight.');
     if(o){const stop=await visit(o,!path.length,jumped);if(stop){path=null;break;}}
     if(swap&&path&&path.length){HERO().mp=0;toast(tileAt(n.x,n.y)===T.LAKE?`${HERO().name} boards ship. Casting off takes the rest of the day.`:`${HERO().name} makes landfall. Unloading takes the rest of the day.`);break;}

diff --git a/CLAUDE.md b/CLAUDE.md
@@ -223,6 +223,16 @@ Everything lives in one object, `S`, so it can be saved as JSON:
 - New ability hooks (player side only): `forgePlus` (extra Great Forge attack), `armyDef` (whole army defense), `rangedPct` (shooter damage), `halfCost` (one spell at half mana), `manaCut` (all spells cheaper), `squallPct`, `weakenPct`.
 - Raised: Ivan (Forge half ore, +1 more attack), Oliver (30% cheaper rough ground, +5% movement), Shadow (harvest 20%), Sheila (Squall +30%), Grimes and Griffiths (+1 speed to their troop). Made distinct: Veyra, Gliss, Silka, Murmur, Boone, Mossback, Aster, Nessa Holt. Trimmed: Schmickle and Quillby to +200 gold a day. Battaglia is a Might hero.
 
+### v48 student heroes, quality of life
+
+- Student Heroes batches 1, 3, 4 and 5: 36 heroes made by students (`student:true`), tavern wanderers of their banner (`tav:true`) or rogues when no banner was given (Nyx, Nala, Nanya, Posy Spinner, Bristle, Posy, Kaf). Simple abilities from the usual hooks. `RECRUIT_PORT`/`recruits.png` hold 112 portraits (12 rows). Legacy Portrait Redesigns replaced Battaglia, Dorothy, Lawrence, Oliver, Parker, Perry, Shadow, Sheila, Vargas and Griffiths (`mer2`); portrait URLs carry `?v=48`.
+- Movement: `maxMP` base 1200 (was 900); roads cost 55 (`TCOST[T.ROAD]`, was 70).
+- Ships: stepping from land onto water with a boat asks first (**Board the ship?**, in `walk`), since boarding ends the day's movement.
+- Lighthouses (shore scenery) draw at 70% size; `LIGHTS` holds their tiles (filled by the terrain painter) and `lightsNear` reveals 14 tiles around any light within 2 tiles of a hero (first visit toasts, `S.lit`).
+- Day flip: 160 px hourglass, "Week N · Day N" with the month beneath, popping in.
+- Starting treasure on Choose your game (`mo.treasure`, `startRes`): by difficulty, 5,000 gold and 5 of each material, or 10,000 and 10.
+- Mines panel: one centred card per kind of mine with its pictures stacked, total output, and each mine's level, Upgrade and 📍 (show on map); the ⛏ top-bar button is taller with the count under the pickaxe.
+
 ### v47 class heroes
 
 - Students' heroes from **Create a hero** can join the game. Step 7 of the worksheet loads the AI picture (square crop, optional white-background flood fill from the edges, shrunk to 128 × 128 PNG data URL: `crProcess`), checks the rules (`crChecks`: name, all 6 points, an in-game ability, a picture) and adds the hero (`crAdd`). Written abilities and invented spells stay in the story; the game uses the picked troop/map ability and a banner spell (`crGameSpell`; Meteor and Starfall are not allowed, `CU_NOSPELL`).

diff --git a/LEGAL.md b/LEGAL.md
@@ -60,6 +60,7 @@ No other libraries, images or audio are included. Art made later with ChatGPT or
 | Final Roster: 13 hero portraits (Peyto, Nissa, the second Livingston, Enzo, Axel, Dot, Gale, Wick, Lore, Fern, Mossback, Alderhide, India) in `assets/portraits/heroes/` and `recruits.png` | Supplied by the author (generated pixel art, ChatGPT) | 2026-11-13 | Invented characters; any modelled on real people are used with their permission and carry no surnames beyond what the author approved |
 | Banner Heroes: 13 new hero portraits and 13 redraws in `assets/portraits/heroes/` and `recruits.png` | Supplied by the author (generated pixel art, ChatGPT) | 2026-11-13 | Invented characters; any modelled on real people are used with their permission |
 | Twins & Tavern Heroes: 15 hero portraits in `assets/portraits/heroes/` and `recruits.png` | Supplied by the author (generated pixel art, ChatGPT) | 2026-11-13 | Invented characters |
+| Legacy Portrait Redesigns (10) and Student Heroes batches 1, 3, 4, 5 (36 portraits) in `assets/portraits/heroes/` and `recruits.png` | Supplied by the author (generated pixel art, ChatGPT, from students' Create a hero worksheets) | 2026-11-14 | Characters designed by students, used with the author's permission |
 | Half-size move cursor (`assets/ui/cursors/move_small.png`) | Downscaled locally from Pack 09's move cursor | 2026-11-08 | Same as above |
 
 The generated source images (high-res magenta PNGs) are kept outside this repo.
